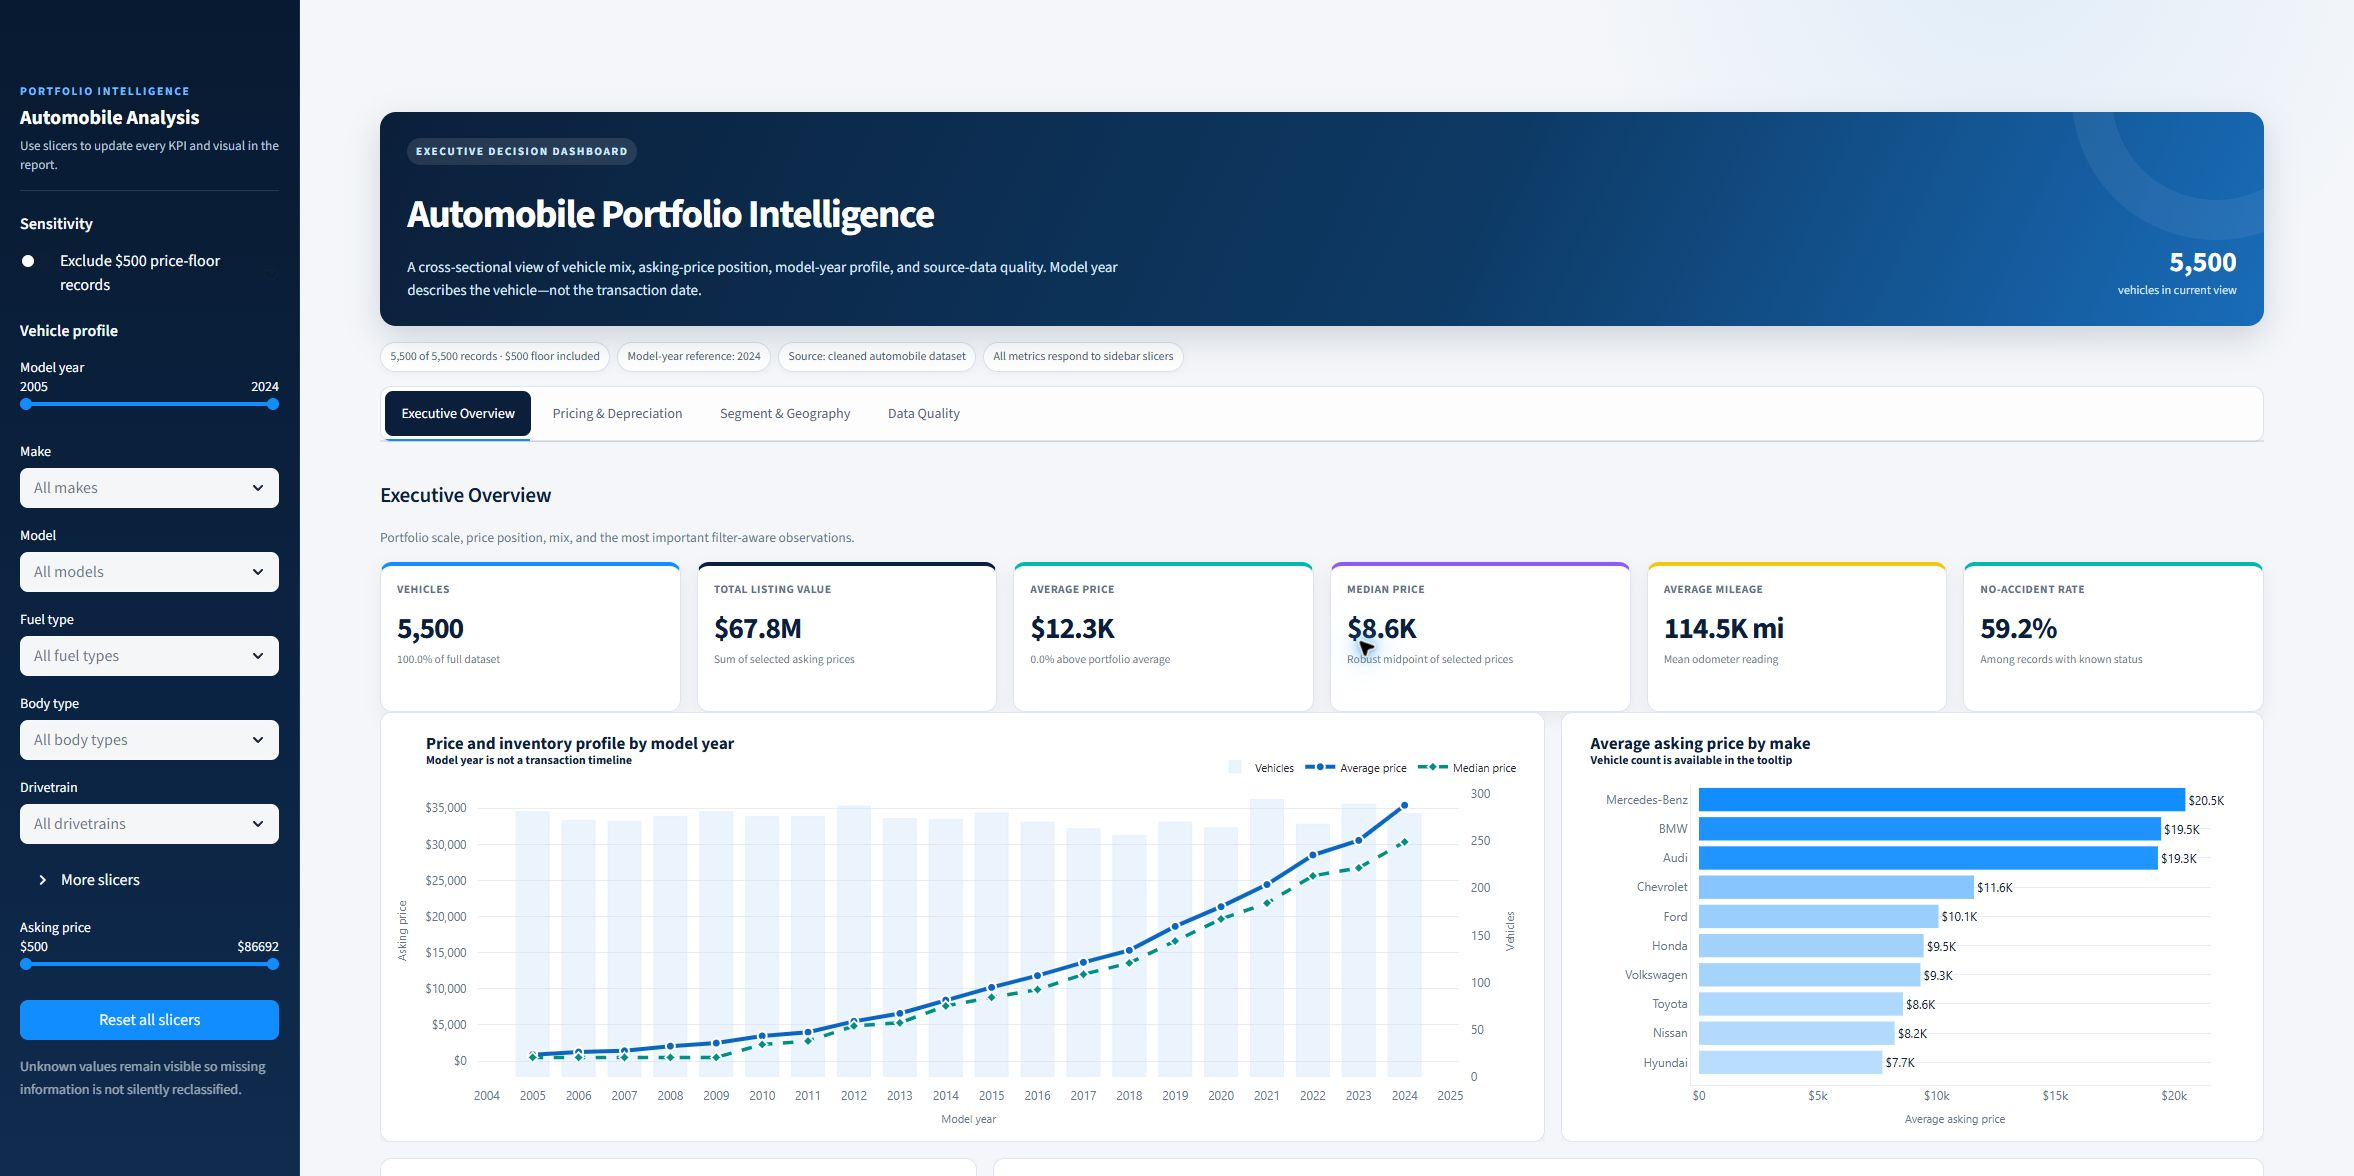
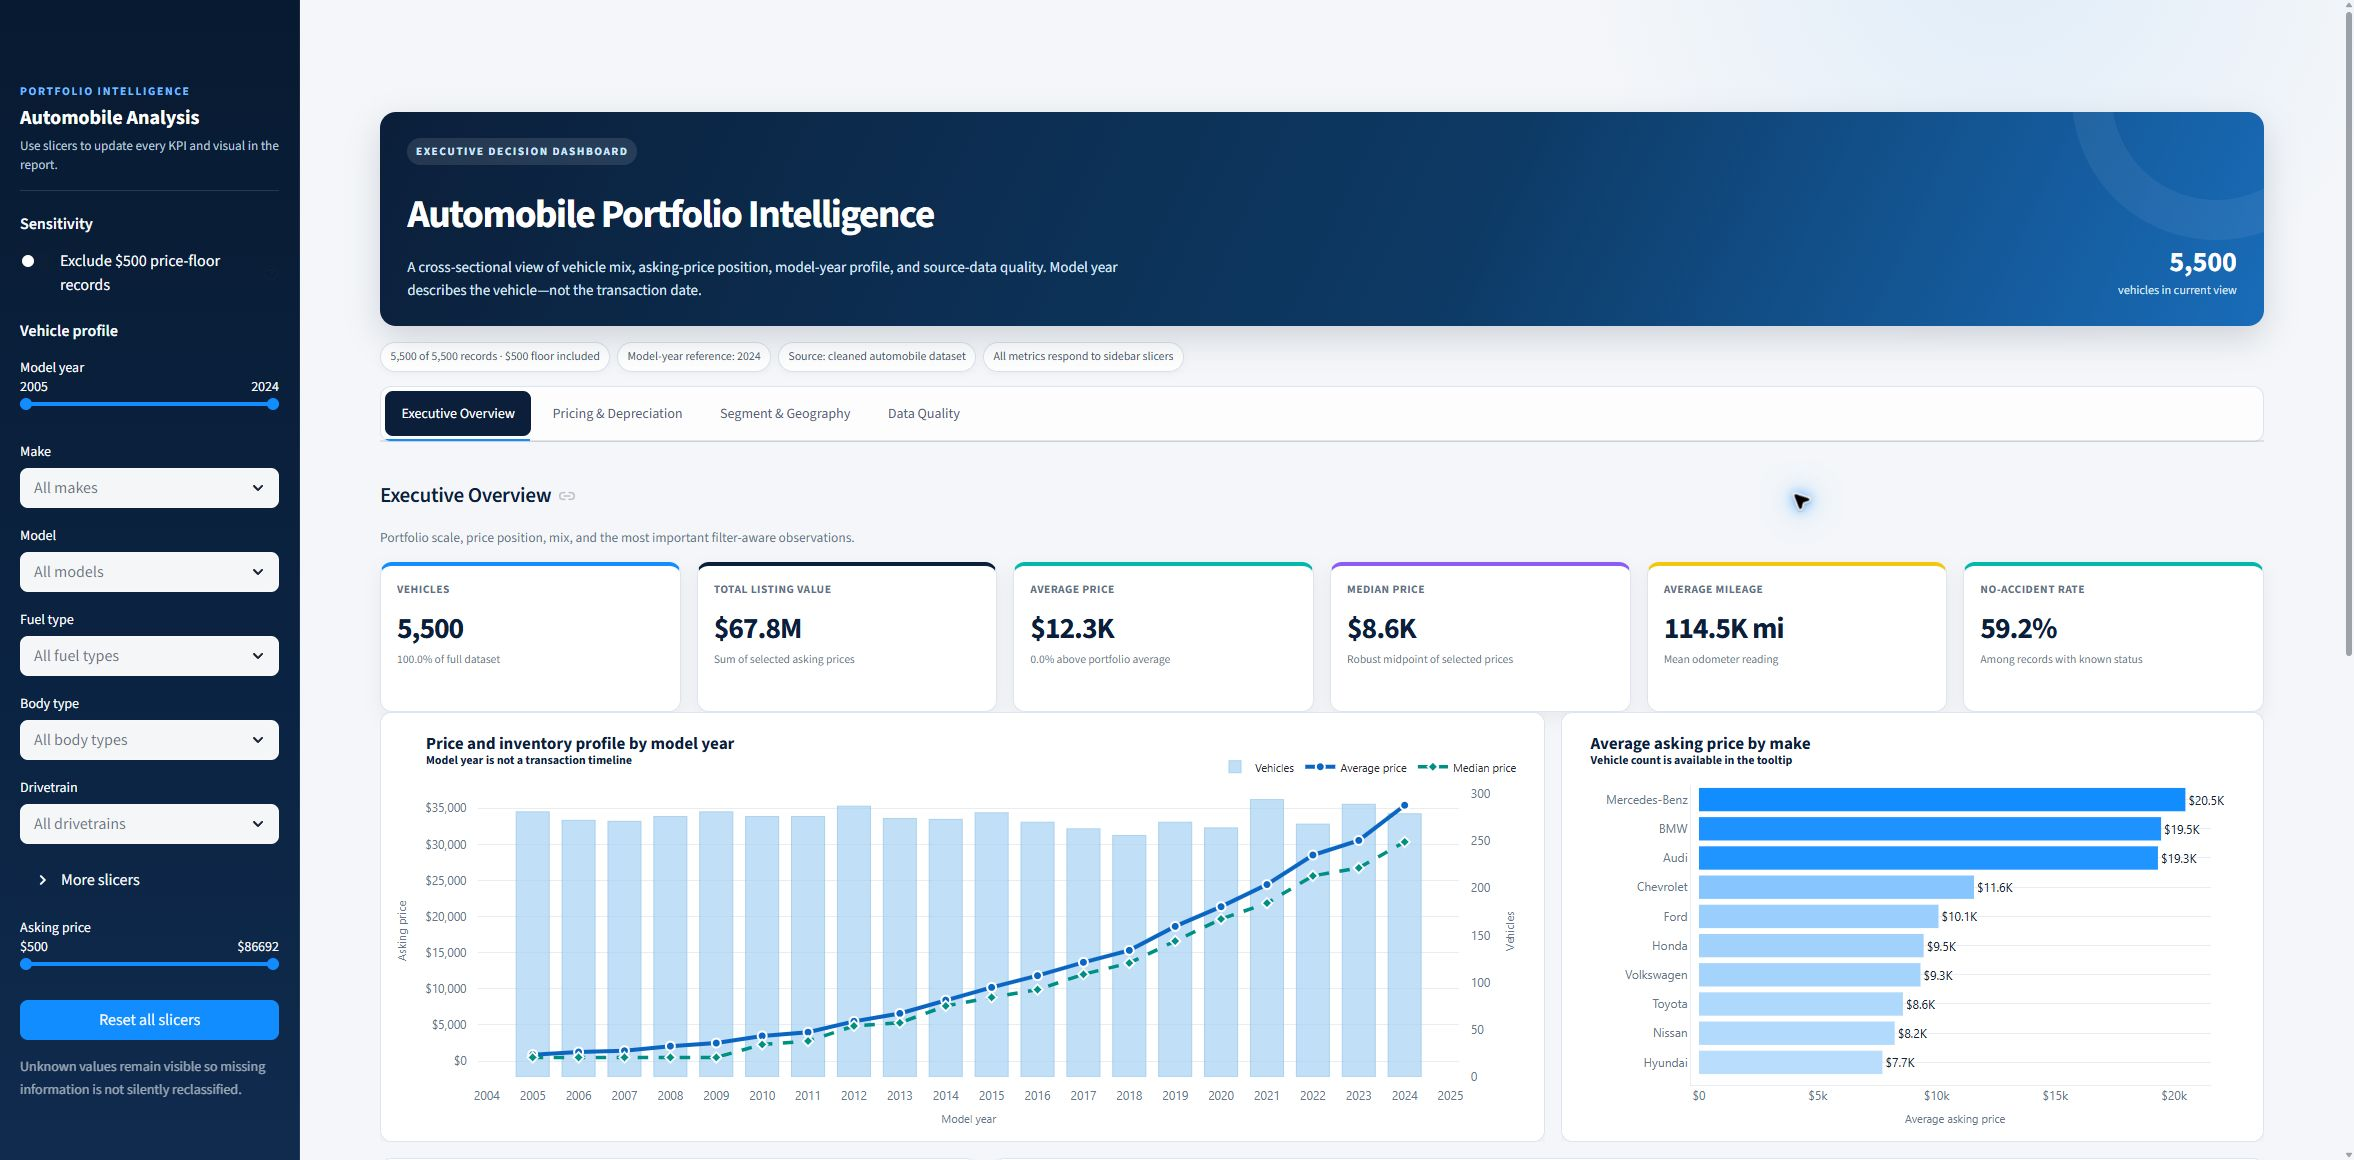
Increase inventory column contrast

diff --git a/app.py b/app.py
@@ -853,10 +853,10 @@ with tabs[0]:
             y=year_summary["vehicles"],
             name="Vehicles",
             marker={
-                "color": "#CFE4F7",
-                "line": {"color": "#B7D7F0", "width": 0.5},
+                "color": "#A9D3F2",
+                "line": {"color": "#7CB6E2", "width": 0.7},
             },
-            opacity=0.42,
+            opacity=0.72,
             zorder=0,
             hovertemplate="Model year %{x}<br>Vehicles %{y:,.0f}<extra></extra>",
         ),

diff --git a/tests/test_dashboard_rendering.py b/tests/test_dashboard_rendering.py
@@ -19,7 +19,7 @@ def test_price_lines_render_above_inventory_columns() -> None:
     average = traces["Average price"]
     median = traces["Median price"]
 
-    assert vehicles["opacity"] <= 0.5
+    assert 0.65 <= vehicles["opacity"] <= 0.75
     assert vehicles["zorder"] < average["zorder"] < median["zorder"]
     assert average["line"]["width"] >= 4
     assert median["line"]["width"] >= 3
